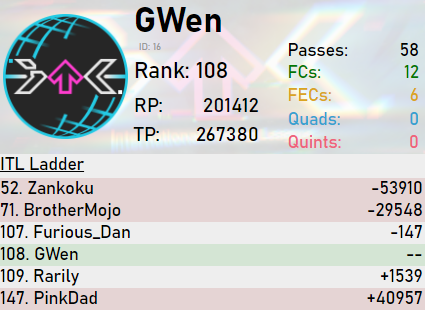
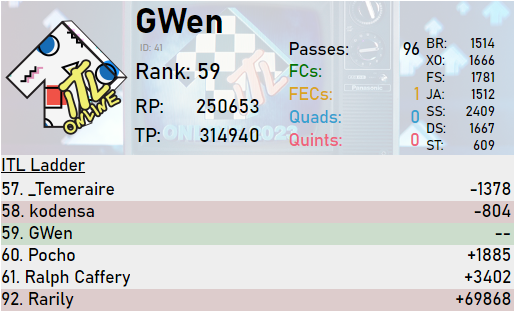
Update vanilla js widget to work with new api endpoint, update READMEs

diff --git a/widget/widget.js b/widget/widget.js
@@ -2,9 +2,9 @@
 
 const config = {
   // Change this to be the same as your ITL entrant id
-  entrantId: 0,
+  entrantId: 41,
  
-  endpoint: "https://itl2023.groovestats.com/api/widget/",
+  endpoint: "https://itl2023.groovestats.com/api/entrant/",
 
   // Use this to override the name that displays on the widget
   // Useful if your ITL/GS name is over 11 characters
@@ -17,23 +17,25 @@ const config = {
 
 const e = React.createElement;
 const defaultState = {
-  "id": "--",
-  "name": "--",
-  "rank": "---",
-  "rankingPoints": "--",
-  "totalPoints": "--",
-  "totalPass": "---",
-  "totalFC": "--",
-  "totalFec": "--",
-  "totalQuad": "--",
-  "totalQuint": "--",
-  "jackLevel": "-",
-  "crossoverLevel": "-",
-  "bracketLevel": "-",
-  "footswitchLevel": "-",
-  "sideswitchLevel": "-",
-  "doublestepLevel": "-",
-  "staminaLevel": "-",
+  "entrant": {
+    "id": "--",
+    "name": "---",
+    "rank": "---",
+    "rankingPoints": "--",
+    "totalPoints": "--",
+    "totalPass": "---",
+    "totalFC": "--",
+    "totalFec": "--",
+    "totalQuad": "--",
+    "totalQuint": "--",
+    "jackLevel": "-",
+    "crossoverLevel": "-",
+    "bracketLevel": "-",
+    "footswitchLevel": "-",
+    "sideswitchLevel": "-",
+    "doublestepLevel": "-",
+    "staminaLevel": "-",
+  },
   "ladder": [
     {"rank": "--", "name": "--", "rankingPoints": 0, "difference": 0, "type": "neutral"},
     {"rank": "--", "name": "--", "rankingPoints": 0, "difference": 0, "type": "neutral"},
@@ -61,79 +63,79 @@ class ITLWidget extends React.Component {
 
   render() {
     var entrantName = e('div', {className: "entrant-name"},
-        (config.overrideName == "" ? this.state.name : config.overrideName)
+        (config.overrideName == "" ? this.state.entrant.name : config.overrideName)
     )
 
     var entrantInfo = e('div', {className: "entrant-info"},
       e('div', {className: "entrant-id"},
-        e('div', null, "ID: " + this.state.id),
+        e('div', null, "ID: " + this.state.entrant.id),
       ),
       e('div', {className: "entrant-rank"},
-        e('div', null, "Rank: " + this.state.rank),
+        e('div', null, "Rank: " + this.state.entrant.rank),
       ),
       e('div', {className: "entrant-points"},
         e('div', null, "RP:"),
         e('div', null, ""),
-        e('div', null, this.state.rankingPoints),
+        e('div', null, this.state.entrant.rankingPoints),
       ),
       e('div', {className: "entrant-points"},
         e('div', null, "TP:"),
         e('div', null, ""),
-        e('div', null, this.state.totalPoints),
+        e('div', null, this.state.entrant.totalPoints),
       ),
     )
 
     var songInfo = e('div', {className: "clear-info"},
       e('div', {className: "passes"},
         e('div', null, "Passes:"),
-        e('div', null, this.state.totalPass)
+        e('div', null, this.state.entrant.totalPass)
       ),
       e('div', {className: "fcs"},
         e('div', null, "FCs:"),
-        e('div', null, this.state.totalFC)
+        e('div', null, this.state.entrant.totalFC)
       ),
       e('div', {className: "fecs"},
         e('div', null, "FECs:"),
-        e('div', null, this.state.totalFec)
+        e('div', null, this.state.entrant.totalFec)
       ),
       e('div', {className: "quads"},
         e('div', null, "Quads:"),
-        e('div', null, this.state.totalQuad)
+        e('div', null, this.state.entrant.totalQuad)
       ),
       e('div', {className: "quints"},
         e('div', null, "Quints:"),
-        e('div', null, this.state.totalQuint)
+        e('div', null, this.state.entrant.totalQuint)
       ),
     )
 
     var techLevelInfo = e('div', {className: "tech-level-info"},
       e('div', {className: "bracket"},
         e('div', null, "BR:"),
-        e('div', null, this.state.bracketLevel),
+        e('div', null, this.state.entrant.bracketLevel),
       ),
       e('div', {className: "crossover"},
         e('div', null, "XO:"),
-        e('div', null, this.state.crossoverLevel),
+        e('div', null, this.state.entrant.crossoverLevel),
       ),
       e('div', {className: "footswitch"},
         e('div', null, "FS:"),
-        e('div', null, this.state.footswitchLevel),
+        e('div', null, this.state.entrant.footswitchLevel),
       ),
       e('div', {className: "jack"},
         e('div', null, "JA:"),
-        e('div', null, this.state.jackLevel),
+        e('div', null, this.state.entrant.jackLevel),
       ),
       e('div', {className: "sideswitch"},
         e('div', null, "SS:"),
-        e('div', null, this.state.sideswitchLevel),
+        e('div', null, this.state.entrant.sideswitchLevel),
       ),
       e('div', {className: "doublestep"},
         e('div', null, "DS:"),
-        e('div', null, this.state.doublestepLevel),
+        e('div', null, this.state.entrant.doublestepLevel),
       ),
       e('div', {className: "stamina"},
         e('div', null, "ST:"),
-        e('div', null, this.state.staminaLevel),
+        e('div', null, this.state.entrant.staminaLevel),
       ),
     )
 
@@ -163,19 +165,23 @@ class ITLWidget extends React.Component {
 }
 
 function getInfo() {
-  fetch(config.endpoint + config.entrantId)
+  fetch(config.endpoint + config.entrantId + "/stats")
     .then((response) => {
       if (response.ok) { 
-        var data = response.json();
-        
+        var json = response.json();
+        return json;
+       }
+      return Promise.reject(response); 
+    })
+    .then((json) => {
+        var data = json["data"]
+
         // calculate the ranking points difference between the entrant_id and the rest of the ladder
         for (var i = 0; i < 6; i++) { 
-          data.ladder[i]['difference'] = data.rankingPoints - data.ladder[i]['rankingPoints'];
+          data["ladder"][i]['difference'] = data["entrant"]["rankingPoints"] - data["ladder"][i]['rankingPoints'];
         }
 
         return data;
-       }
-      return Promise.reject(response); 
     })
     .then((data) => {
       this.setState(data);

diff --git a/widget/index.html b/widget/index.html
@@ -3,7 +3,7 @@
   <head>
     <meta charset="UTF-8" />
     <link hrel="stylesheet" ref="https://fonts.cdnfonts.com/css/bahnschrift">
-    <link rel="stylesheet" href="themes/light/style.css">
+    <link rel="stylesheet" href="themes/dark/style.css">
     <title>International Timing League</title>
   </head>
   <body>

diff --git a/widget/widget.jsx b/widget/widget.jsx
@@ -59,7 +59,7 @@ const ITLWidget = () => {
   }
 
   const get_info = () => {
-    fetch(CONFIG.endpoint + CONFIG.entrant_id)
+    fetch(CONFIG.endpoint + CONFIG.entrant_id + "/stats")
       .then((response) => {
         if (response.ok) { 
           var data = response.json();

diff --git a/widget/readme.md b/widget/readme.md
@@ -1,22 +1,27 @@
 Please DM GWen#2607 on discord if you run into issues. 
 
-To run the widget:
-1. Set the entrant id in `widget.js` to your own entrant id. Save.
+## ITL 2023 Online Stream Stats Widget
+
+You can also view the widget from the ITL 2023 Online website at:
+
+`https://itl2023.groovestats.com/stats?entrantId={entrantId}&theme={theme}`
+
+where `{entrantId}` is replaced with your `entrantId` and `{theme}` is one of `Dark`, `DarkVertical`, `Light`, or `LightVertical`.
+
+## Running the Stream Stats Widget locally:
+1. Set the `entrantId` in `widget.js` to your own `entrantId`. Save.
 2. Set `index.html` as a browser source for your stream.
 
-To find your entrant_id view your profile on the ITL website and note the number that follows `entrant/` in the url.
+You can find your `entrantId` under Preferences on the ITL 2023 website.
 
-Customizations:
+## Customizations:
+
 To use a different theme themes change the stylesheet in `index.html` from `themes/dark/style.css` to:
 * Dark: `themes/dark/style.css`
 * Dark Vertical: `themes/darkvertical/style.css`
-* Dark Info Only: `themes/darkinfo/style.css`
-* Dark Ladder Only: `themes/darkladder/style.css`
 
 * Light: `themes/light/style.css`
 * Light Vertical: `themes/lightvertical/style.css`
-* Light Info Only: `themes/lightinfo/style.css`
-* Light Ladder Only: `themes/lightladder/style.css`
 
 If you want to change the profile picture replace Avatar.png with the picture you want. 
  - If you want to use an alternative file format/file name specify the source inside of `widget.js`.

diff --git a/README.md b/README.md
@@ -1,15 +1,19 @@
-# itlwidget
-Streamer widget and API for [ITL Online 2022](https://itl2023.groovestats.com).
+# [ITL Online 2023](https://itl2023.groovestats.com) Stream Stats Widget 
 
 ![image](widget_dark.png)
 
 ![image](widget_light_vertical.png)
 
 To download the repository you can click on `Code` and then `Download ZIP`:
+
 ![image](download.png)
 
 To run the widget download the repository and follow the instructions in `widget/readme.md`.
 
-Acknowledgements:
+## Acknowledgements:
+
+ITL Online 2023 integration by [VincentITG](https://github.com/vlnguyen).
+
+JSX conversion by [JWong](https://github.com/JonJWong).
 
 Dark theme of the widget was provided courtesy of [Freis](https://github.com/gab-santi), minor modifications have been made.
